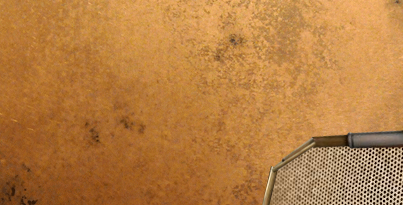
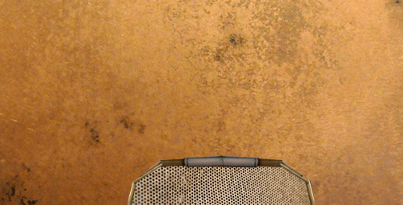
fixed background added second controller and removed left and right buttons added some TODOs

Changed region(s): [[0.2978, 0.6146, 1.0, 1.0]]

diff --git a/App.js b/App.js
@@ -22,7 +22,15 @@ export default class App extends React.Component {
           style={ styles.backgroundImage }
           source={ require( './images/background.png' ) }
         />
-        <Controller />
+        {
+          /*                                                                   *
+           * TODO: Add refs here and have the App maintain state.  The app will
+           * have references which will be used to send the data via bluetooth
+           * to the arduino.
+           */
+        }
+        <Controller forward={true} reverse={true} position='left' />
+        <Controller forward={true} reverse={true} position='right' />
       </View>
     );
   }

diff --git a/README.md b/README.md
@@ -1,201 +1,1 @@
-This project was bootstrapped with [Create React Native App](https://github.com/react-community/create-react-native-app).
-
-Below you'll find information about performing common tasks. The most recent version of this guide is available [here](https://github.com/react-community/create-react-native-app/blob/master/react-native-scripts/template/README.md).
-
-## Table of Contents
-
-* [Updating to New Releases](#updating-to-new-releases)
-* [Available Scripts](#available-scripts)
-  * [npm start](#npm-start)
-  * [npm test](#npm-test)
-  * [npm run ios](#npm-run-ios)
-  * [npm run android](#npm-run-android)
-  * [npm run eject](#npm-run-eject)
-* [Writing and Running Tests](#writing-and-running-tests)
-* [Environment Variables](#environment-variables)
-  * [Configuring Packager IP Address](#configuring-packager-ip-address)
-* [Customizing App Display Name and Icon](#customizing-app-display-name-and-icon)
-* [Sharing and Deployment](#sharing-and-deployment)
-  * [Publishing to Expo's React Native Community](#publishing-to-expos-react-native-community)
-  * [Building an Expo "standalone" app](#building-an-expo-standalone-app)
-  * [Ejecting from Create React Native App](#ejecting-from-create-react-native-app)
-    * [Build Dependencies (Xcode & Android Studio)](#build-dependencies-xcode-android-studio)
-    * [Should I Use ExpoKit?](#should-i-use-expokit)
-* [Troubleshooting](#troubleshooting)
-  * [Networking](#networking)
-  * [iOS Simulator won't open](#ios-simulator-wont-open)
-  * [QR Code does not scan](#qr-code-does-not-scan)
-
-## Updating to New Releases
-
-You should only need to update the global installation of `create-react-native-app` very rarely, ideally never.
-
-Updating the `react-native-scripts` dependency of your app should be as simple as bumping the version number in `package.json` and reinstalling your project's dependencies.
-
-Upgrading to a new version of React Native requires updating the `react-native`, `react`, and `expo` package versions, and setting the correct `sdkVersion` in `app.json`. See the [versioning guide](https://github.com/react-community/create-react-native-app/blob/master/VERSIONS.md) for up-to-date information about package version compatibility.
-
-## Available Scripts
-
-If Yarn was installed when the project was initialized, then dependencies will have been installed via Yarn, and you should probably use it to run these commands as well. Unlike dependency installation, command running syntax is identical for Yarn and NPM at the time of this writing.
-
-### `npm start`
-
-Runs your app in development mode.
-
-Open it in the [Expo app](https://expo.io) on your phone to view it. It will reload if you save edits to your files, and you will see build errors and logs in the terminal.
-
-Sometimes you may need to reset or clear the React Native packager's cache. To do so, you can pass the `--reset-cache` flag to the start script:
-
-```
-npm start --reset-cache
-# or
-yarn start --reset-cache
-```
-
-#### `npm test`
-
-Runs the [jest](https://github.com/facebook/jest) test runner on your tests.
-
-#### `npm run ios`
-
-Like `npm start`, but also attempts to open your app in the iOS Simulator if you're on a Mac and have it installed.
-
-#### `npm run android`
-
-Like `npm start`, but also attempts to open your app on a connected Android device or emulator. Requires an installation of Android build tools (see [React Native docs](https://facebook.github.io/react-native/docs/getting-started.html) for detailed setup). We also recommend installing Genymotion as your Android emulator. Once you've finished setting up the native build environment, there are two options for making the right copy of `adb` available to Create React Native App:
-
-##### Using Android Studio's `adb`
-
-1. Make sure that you can run adb from your terminal.
-2. Open Genymotion and navigate to `Settings -> ADB`. Select “Use custom Android SDK tools” and update with your [Android SDK directory](https://stackoverflow.com/questions/25176594/android-sdk-location).
-
-##### Using Genymotion's `adb`
-
-1. Find Genymotion’s copy of adb. On macOS for example, this is normally `/Applications/Genymotion.app/Contents/MacOS/tools/`.
-2. Add the Genymotion tools directory to your path (instructions for [Mac](http://osxdaily.com/2014/08/14/add-new-path-to-path-command-line/), [Linux](http://www.computerhope.com/issues/ch001647.htm), and [Windows](https://www.howtogeek.com/118594/how-to-edit-your-system-path-for-easy-command-line-access/)).
-3. Make sure that you can run adb from your terminal.
-
-#### `npm run eject`
-
-This will start the process of "ejecting" from Create React Native App's build scripts. You'll be asked a couple of questions about how you'd like to build your project.
-
-**Warning:** Running eject is a permanent action (aside from whatever version control system you use). An ejected app will require you to have an [Xcode and/or Android Studio environment](https://facebook.github.io/react-native/docs/getting-started.html) set up.
-
-## Customizing App Display Name and Icon
-
-You can edit `app.json` to include [configuration keys](https://docs.expo.io/versions/latest/guides/configuration.html) under the `expo` key.
-
-To change your app's display name, set the `expo.name` key in `app.json` to an appropriate string.
-
-To set an app icon, set the `expo.icon` key in `app.json` to be either a local path or a URL. It's recommended that you use a 512x512 png file with transparency.
-
-## Writing and Running Tests
-
-This project is set up to use [jest](https://facebook.github.io/jest/) for tests. You can configure whatever testing strategy you like, but jest works out of the box. Create test files in directories called `__tests__` or with the `.test` extension to have the files loaded by jest. See the [the template project](https://github.com/react-community/create-react-native-app/blob/master/react-native-scripts/template/App.test.js) for an example test. The [jest documentation](https://facebook.github.io/jest/docs/en/getting-started.html) is also a wonderful resource, as is the [React Native testing tutorial](https://facebook.github.io/jest/docs/en/tutorial-react-native.html).
-
-## Environment Variables
-
-You can configure some of Create React Native App's behavior using environment variables.
-
-### Configuring Packager IP Address
-
-When starting your project, you'll see something like this for your project URL:
-
-```
-exp://192.168.0.2:19000
-```
-
-The "manifest" at that URL tells the Expo app how to retrieve and load your app's JavaScript bundle, so even if you load it in the app via a URL like `exp://localhost:19000`, the Expo client app will still try to retrieve your app at the IP address that the start script provides.
-
-In some cases, this is less than ideal. This might be the case if you need to run your project inside of a virtual machine and you have to access the packager via a different IP address than the one which prints by default. In order to override the IP address or hostname that is detected by Create React Native App, you can specify your own hostname via the `REACT_NATIVE_PACKAGER_HOSTNAME` environment variable:
-
-Mac and Linux:
-
-```
-REACT_NATIVE_PACKAGER_HOSTNAME='my-custom-ip-address-or-hostname' npm start
-```
-
-Windows:
-```
-set REACT_NATIVE_PACKAGER_HOSTNAME='my-custom-ip-address-or-hostname'
-npm start
-```
-
-The above example would cause the development server to listen on `exp://my-custom-ip-address-or-hostname:19000`.
-
-## Sharing and Deployment
-
-Create React Native App does a lot of work to make app setup and development simple and straightforward, but it's very difficult to do the same for deploying to Apple's App Store or Google's Play Store without relying on a hosted service.
-
-### Publishing to Expo's React Native Community
-
-Expo provides free hosting for the JS-only apps created by CRNA, allowing you to share your app through the Expo client app. This requires registration for an Expo account.
-
-Install the `exp` command-line tool, and run the publish command:
-
-```
-$ npm i -g exp
-$ exp publish
-```
-
-### Building an Expo "standalone" app
-
-You can also use a service like [Expo's standalone builds](https://docs.expo.io/versions/latest/guides/building-standalone-apps.html) if you want to get an IPA/APK for distribution without having to build the native code yourself.
-
-### Ejecting from Create React Native App
-
-If you want to build and deploy your app yourself, you'll need to eject from CRNA and use Xcode and Android Studio.
-
-This is usually as simple as running `npm run eject` in your project, which will walk you through the process. Make sure to install `react-native-cli` and follow the [native code getting started guide for React Native](https://facebook.github.io/react-native/docs/getting-started.html).
-
-#### Should I Use ExpoKit?
-
-If you have made use of Expo APIs while working on your project, then those API calls will stop working if you eject to a regular React Native project. If you want to continue using those APIs, you can eject to "React Native + ExpoKit" which will still allow you to build your own native code and continue using the Expo APIs. See the [ejecting guide](https://github.com/react-community/create-react-native-app/blob/master/EJECTING.md) for more details about this option.
-
-## Troubleshooting
-
-### Networking
-
-If you're unable to load your app on your phone due to a network timeout or a refused connection, a good first step is to verify that your phone and computer are on the same network and that they can reach each other. Create React Native App needs access to ports 19000 and 19001 so ensure that your network and firewall settings allow access from your device to your computer on both of these ports.
-
-Try opening a web browser on your phone and opening the URL that the packager script prints, replacing `exp://` with `http://`. So, for example, if underneath the QR code in your terminal you see:
-
-```
-exp://192.168.0.1:19000
-```
-
-Try opening Safari or Chrome on your phone and loading
-
-```
-http://192.168.0.1:19000
-```
-
-and
-
-```
-http://192.168.0.1:19001
-```
-
-If this works, but you're still unable to load your app by scanning the QR code, please open an issue on the [Create React Native App repository](https://github.com/react-community/create-react-native-app) with details about these steps and any other error messages you may have received.
-
-If you're not able to load the `http` URL in your phone's web browser, try using the tethering/mobile hotspot feature on your phone (beware of data usage, though), connecting your computer to that WiFi network, and restarting the packager. If you are using a VPN you may need to disable it.
-
-### iOS Simulator won't open
-
-If you're on a Mac, there are a few errors that users sometimes see when attempting to `npm run ios`:
-
-* "non-zero exit code: 107"
-* "You may need to install Xcode" but it is already installed
-* and others
-
-There are a few steps you may want to take to troubleshoot these kinds of errors:
-
-1. Make sure Xcode is installed and open it to accept the license agreement if it prompts you. You can install it from the Mac App Store.
-2. Open Xcode's Preferences, the Locations tab, and make sure that the `Command Line Tools` menu option is set to something. Sometimes when the CLI tools are first installed by Homebrew this option is left blank, which can prevent Apple utilities from finding the simulator. Make sure to re-run `npm/yarn run ios` after doing so.
-3. If that doesn't work, open the Simulator, and under the app menu select `Reset Contents and Settings...`. After that has finished, quit the Simulator, and re-run `npm/yarn run ios`.
-
-### QR Code does not scan
-
-If you're not able to scan the QR code, make sure your phone's camera is focusing correctly, and also make sure that the contrast on the two colors in your terminal is high enough. For example, WebStorm's default themes may [not have enough contrast](https://github.com/react-community/create-react-native-app/issues/49) for terminal QR codes to be scannable with the system barcode scanners that the Expo app uses.
-
-If this causes problems for you, you may want to try changing your terminal's color theme to have more contrast, or running Create React Native App from a different terminal. You can also manually enter the URL printed by the packager script in the Expo app's search bar to load it manually.
+This is a controller for the Elegoo Robot Car v3.
